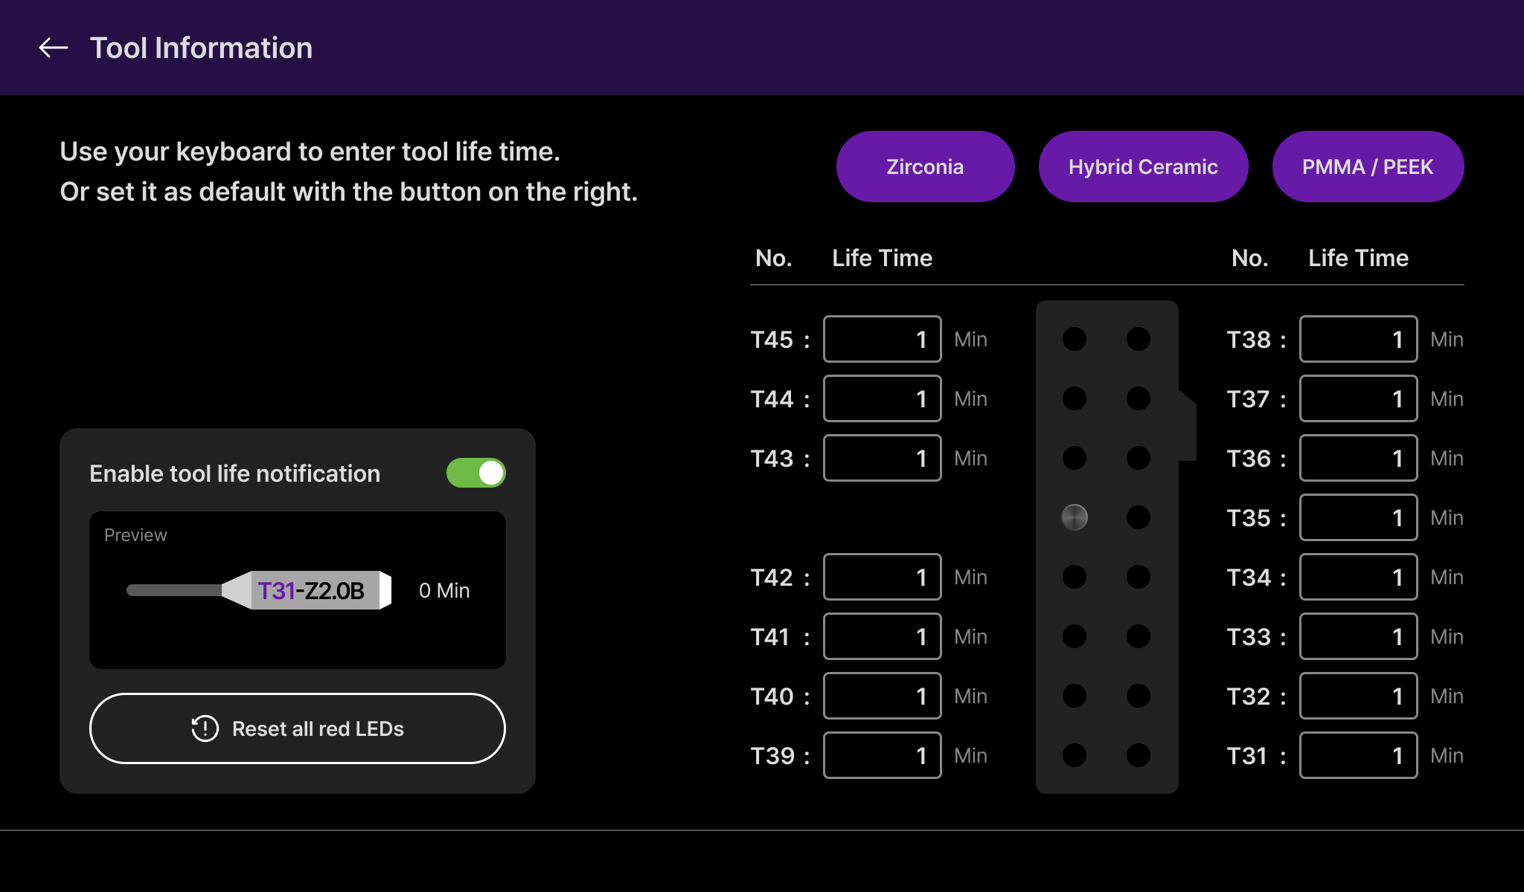
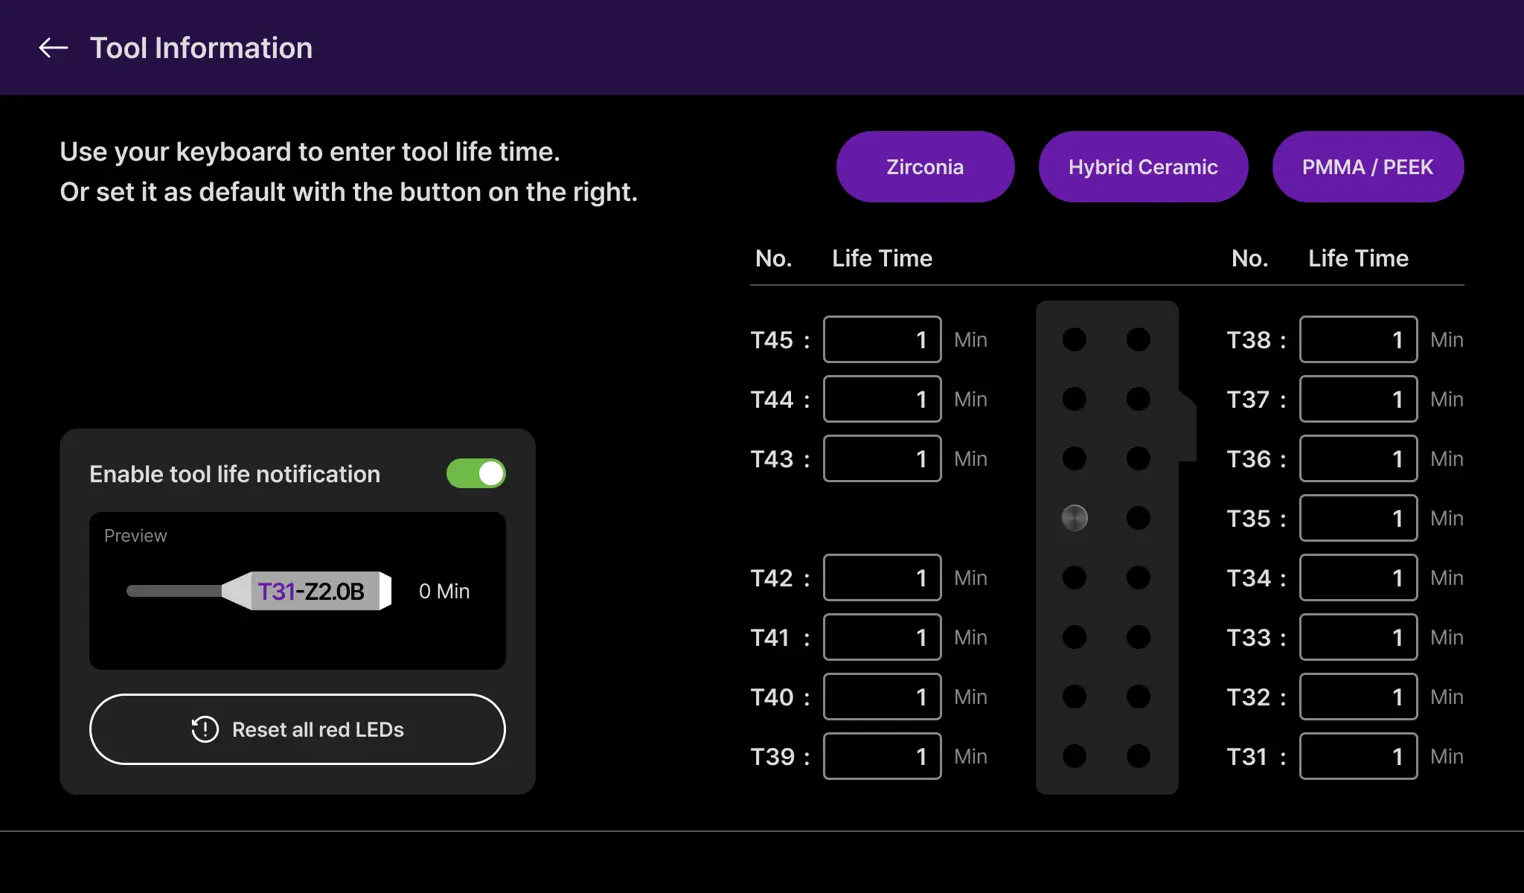
26.06.23-toollistpage

diff --git a/index.html b/index.html
@@ -4234,8 +4234,8 @@
             <button class="mf-hotspot" style="left:52.1%; top:33.9%; width:28.4%; height:42.1%; border-radius:8px;"></button>
             <div class="mf-callout-custom center" style="left: 66.3%; top: 75%; min-width: 260px;"><span class="title">G코드 표시 창</span><span class="desc">: 전체 G코드를 표시합니다</span></div>
             
-            <button class="mf-hotspot pill" style="left: 45.7%; top: 6.0%; width: 9.3%; height: 5.9%; border-radius: 999px;"></button>
-            <div class="mf-callout-custom center right-arrow" style="left: 53.6%; top: 10.4%; min-width: 250px;"><span class="title">메인 페이지</span><span class="desc">: 메인 페이지로 이동합니다</span></div>
+            <button class="mf-hotspot pill" style="left: 45.7%; top: 6.5%; width: 9.3%; height: 5.9%; border-radius: 999px;"></button>
+            <div class="mf-callout-custom center right-arrow" style="left: 53.6%; top: 10.9%; min-width: 250px;"><span class="title">메인 페이지</span><span class="desc">: 메인 페이지로 이동합니다</span></div>
           </div>
         </div>
       </section>
@@ -4378,15 +4378,15 @@
 
             <!-- 2. 우측 상단 -->
             <button class="mf-hotspot" style="left: 76.6%; top: 17.4%; width: 19.6%; height: 23.9%; border-radius: 28px;"></button>
-            <div class="mf-callout-custom center right-arrow" style="left: 60.2%; top: 39.5%; min-width: 260px;"><span class="title">스핀들 사용 시간</span><span class="desc">스핀들이 회전한<br>누적 시간을 표시합니다.</span></div>
+            <div class="mf-callout-custom center right-arrow" style="left: 85.2%; top: 40.5%; min-width: 260px;"><span class="title">스핀들 사용 시간</span><span class="desc">스핀들이 회전한<br>누적 시간을 표시합니다.</span></div>
 
             <!-- 3. 우측 중단 -->
             <button class="mf-hotspot" style="left: 76.7%; top: 44.1%; width: 19.9%; height: 14.0%; border-radius: 28px;"></button>
-            <div class="mf-callout-custom center right-arrow" style="left: 81.9%; top: 56.1%; min-width: 260px;"><span class="title">공구 수명 설정</span><span class="desc">공구 수명 설정<br>페이지를 엽니다.</span></div>
+            <div class="mf-callout-custom center right-arrow" style="left: 85.2%; top: 57.1%; min-width: 260px;"><span class="title">공구 수명 설정</span><span class="desc">공구 수명 설정<br>페이지를 엽니다.</span></div>
 
             <!-- 4. 우측 하단 -->
             <button class="mf-hotspot pill" style="left: 76.6%; top: 72.0%; width: 19.9%; height: 9.5%; border-radius: 999px;"></button>
-            <div class="mf-callout-custom center right-arrow" style="left: 62.5%; top: 79.9%; min-width: 260px;"><span class="title">공구 사용시간 전체 초기화</span><span class="desc">모든 공구의 사용시간을<br>초기화합니다.</span></div>
+            <div class="mf-callout-custom center right-arrow" style="left: 85.2%; top: 80.9%; min-width: 300px;"><span class="title">공구 사용시간 전체 초기화</span><span class="desc">모든 공구의 사용시간을<br>초기화합니다.</span></div>
           </div>
         </div>
       </section>
@@ -4396,11 +4396,9 @@
         <div class="section-anchor" style="font-size:12px; color:#a855f7; margin-bottom:16px; font-family:monospace;">🔗
           Anchor: <a href="#sec-mf-tool-usage" style="color:#a855f7; text-decoration:none;">#sec-mf-tool-usage</a></div>
         <p class="subtitle">MillFix 컨트롤 프로그램</p>
-         <img loading="lazy" src="./assets/images/sec-mf-toollifetimesetting/9.webp" alt="공구 사용시간 설정 1" style="width:100%; border-radius:8px; margin-bottom:40px;" />
+         <img loading="lazy" src="./assets/images/sec-mf-toollifetimesetting/1.webp" alt="공구 사용시간 설정 1" style="width:100%; border-radius:8px; margin-bottom:40px; box-sizing: border-box;" />
 
-         <img loading="lazy" src="./assets/images/sec-mf-toollifetimesetting/10.webp" alt="공구 사용시간 설정 2" style="width:100%; border-radius:8px; margin-bottom:40px;" />
-
-         <img loading="lazy" src="./assets/images/sec-mf-toollifetimesetting/11.webp" alt="공구 사용시간 설정 3" style="width:100%; border-radius:8px;" />
+         <img loading="lazy" src="./assets/images/sec-mf-toollifetimesetting/2.webp" alt="공구 사용시간 설정 2" style="width:100%; border-radius:8px; box-sizing: border-box;" />
       </section>
 
       <section id="sec-mf-settings" class="content-section">
